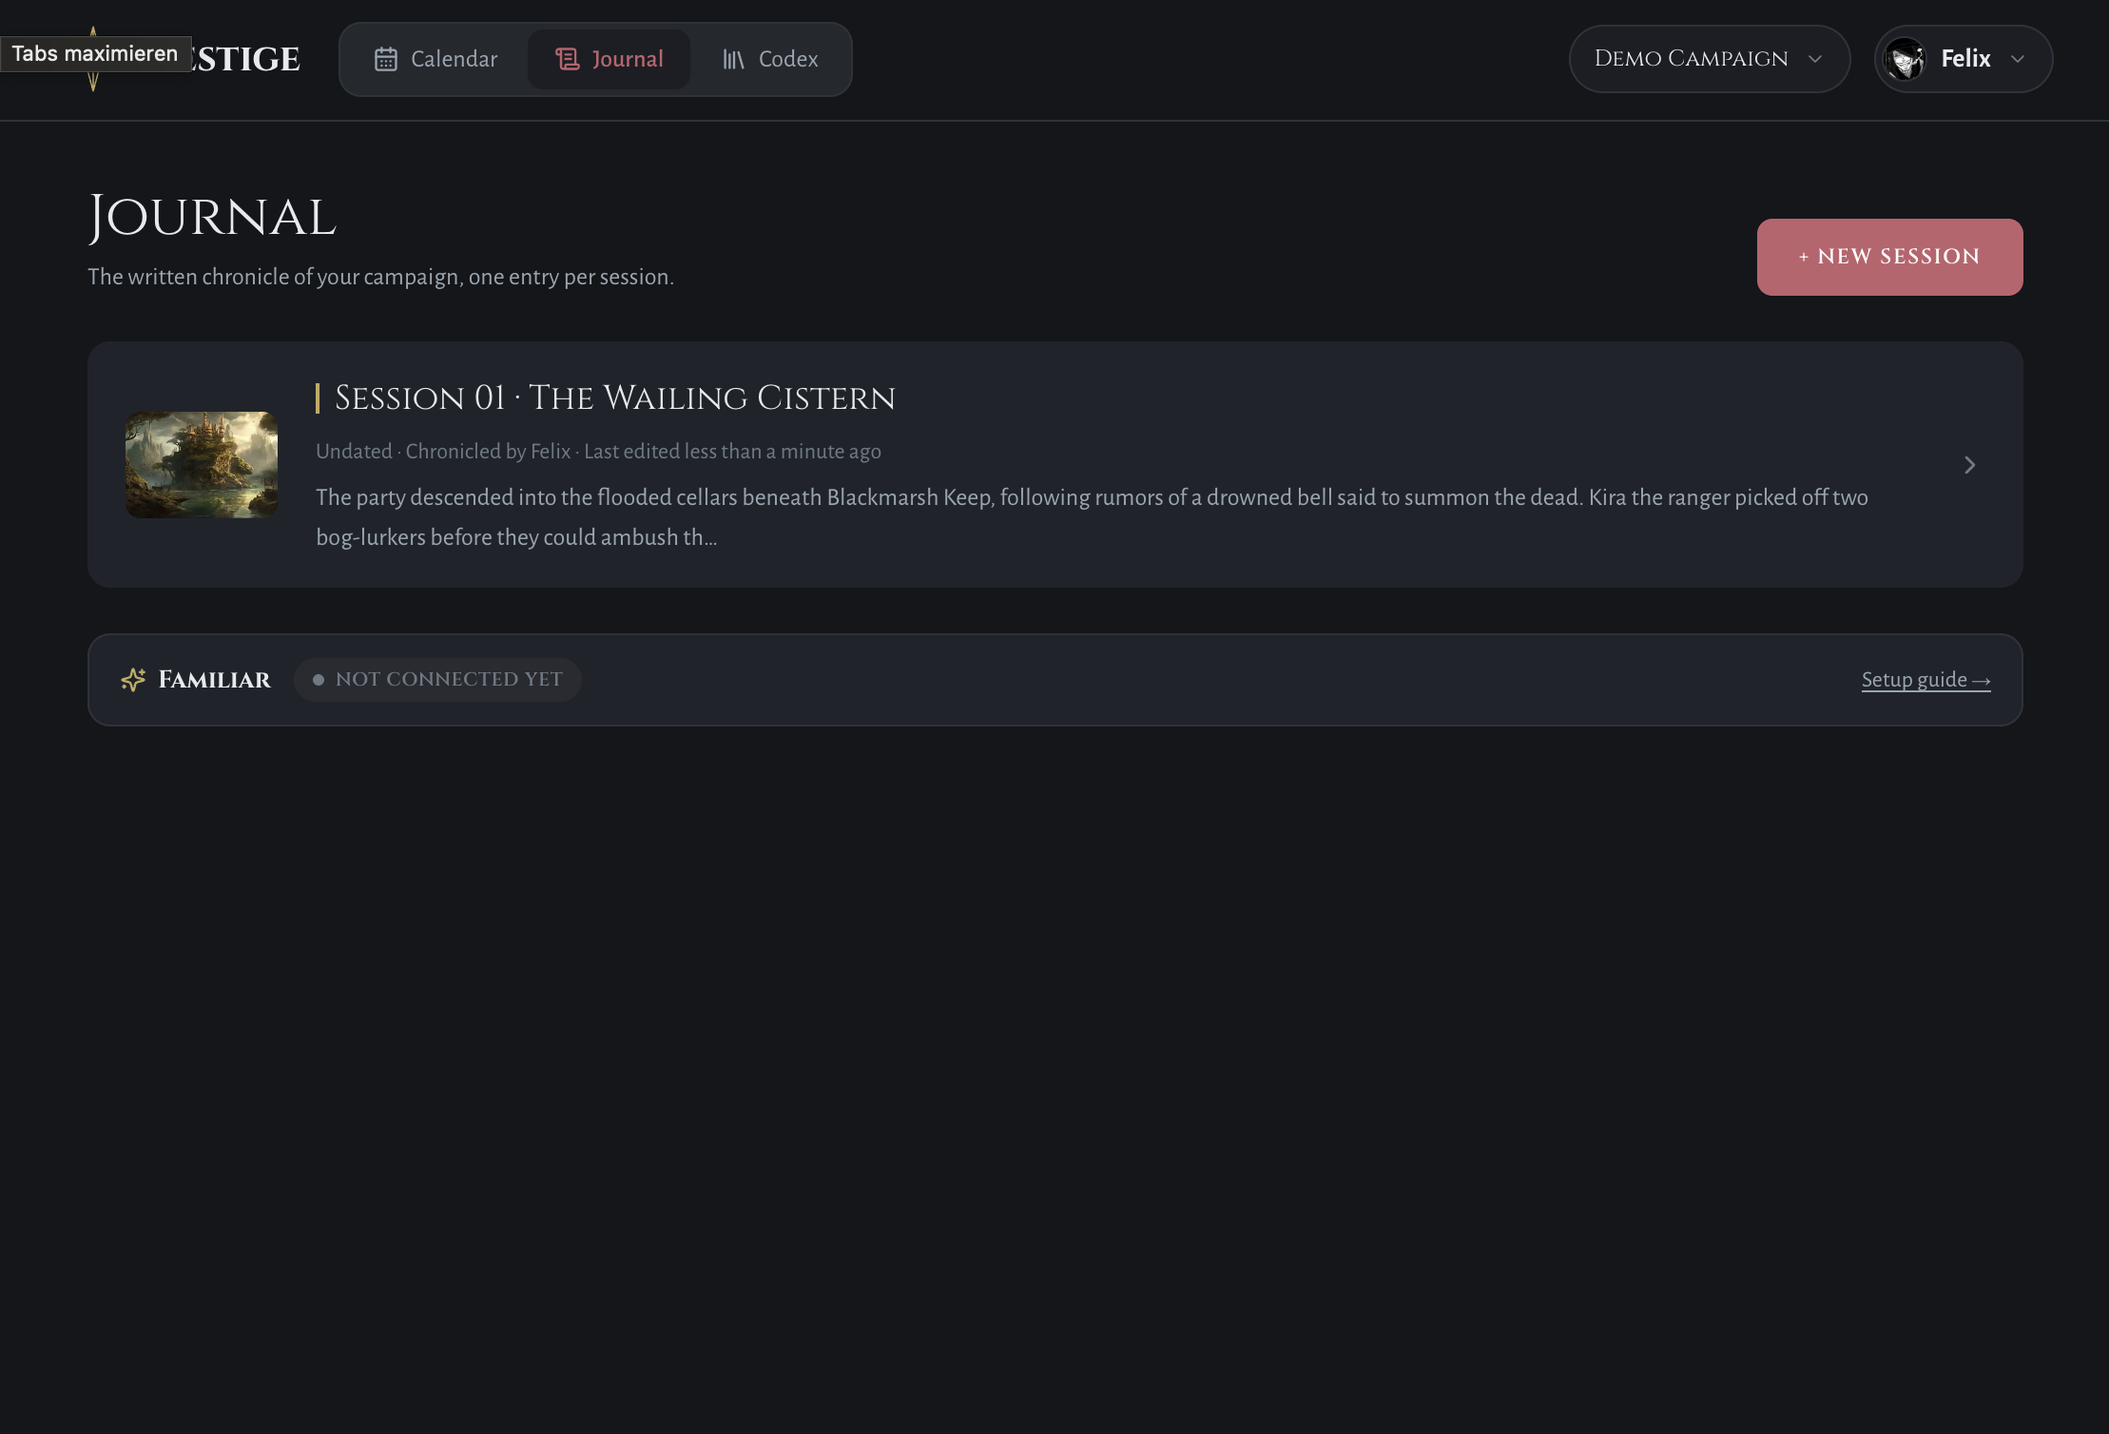
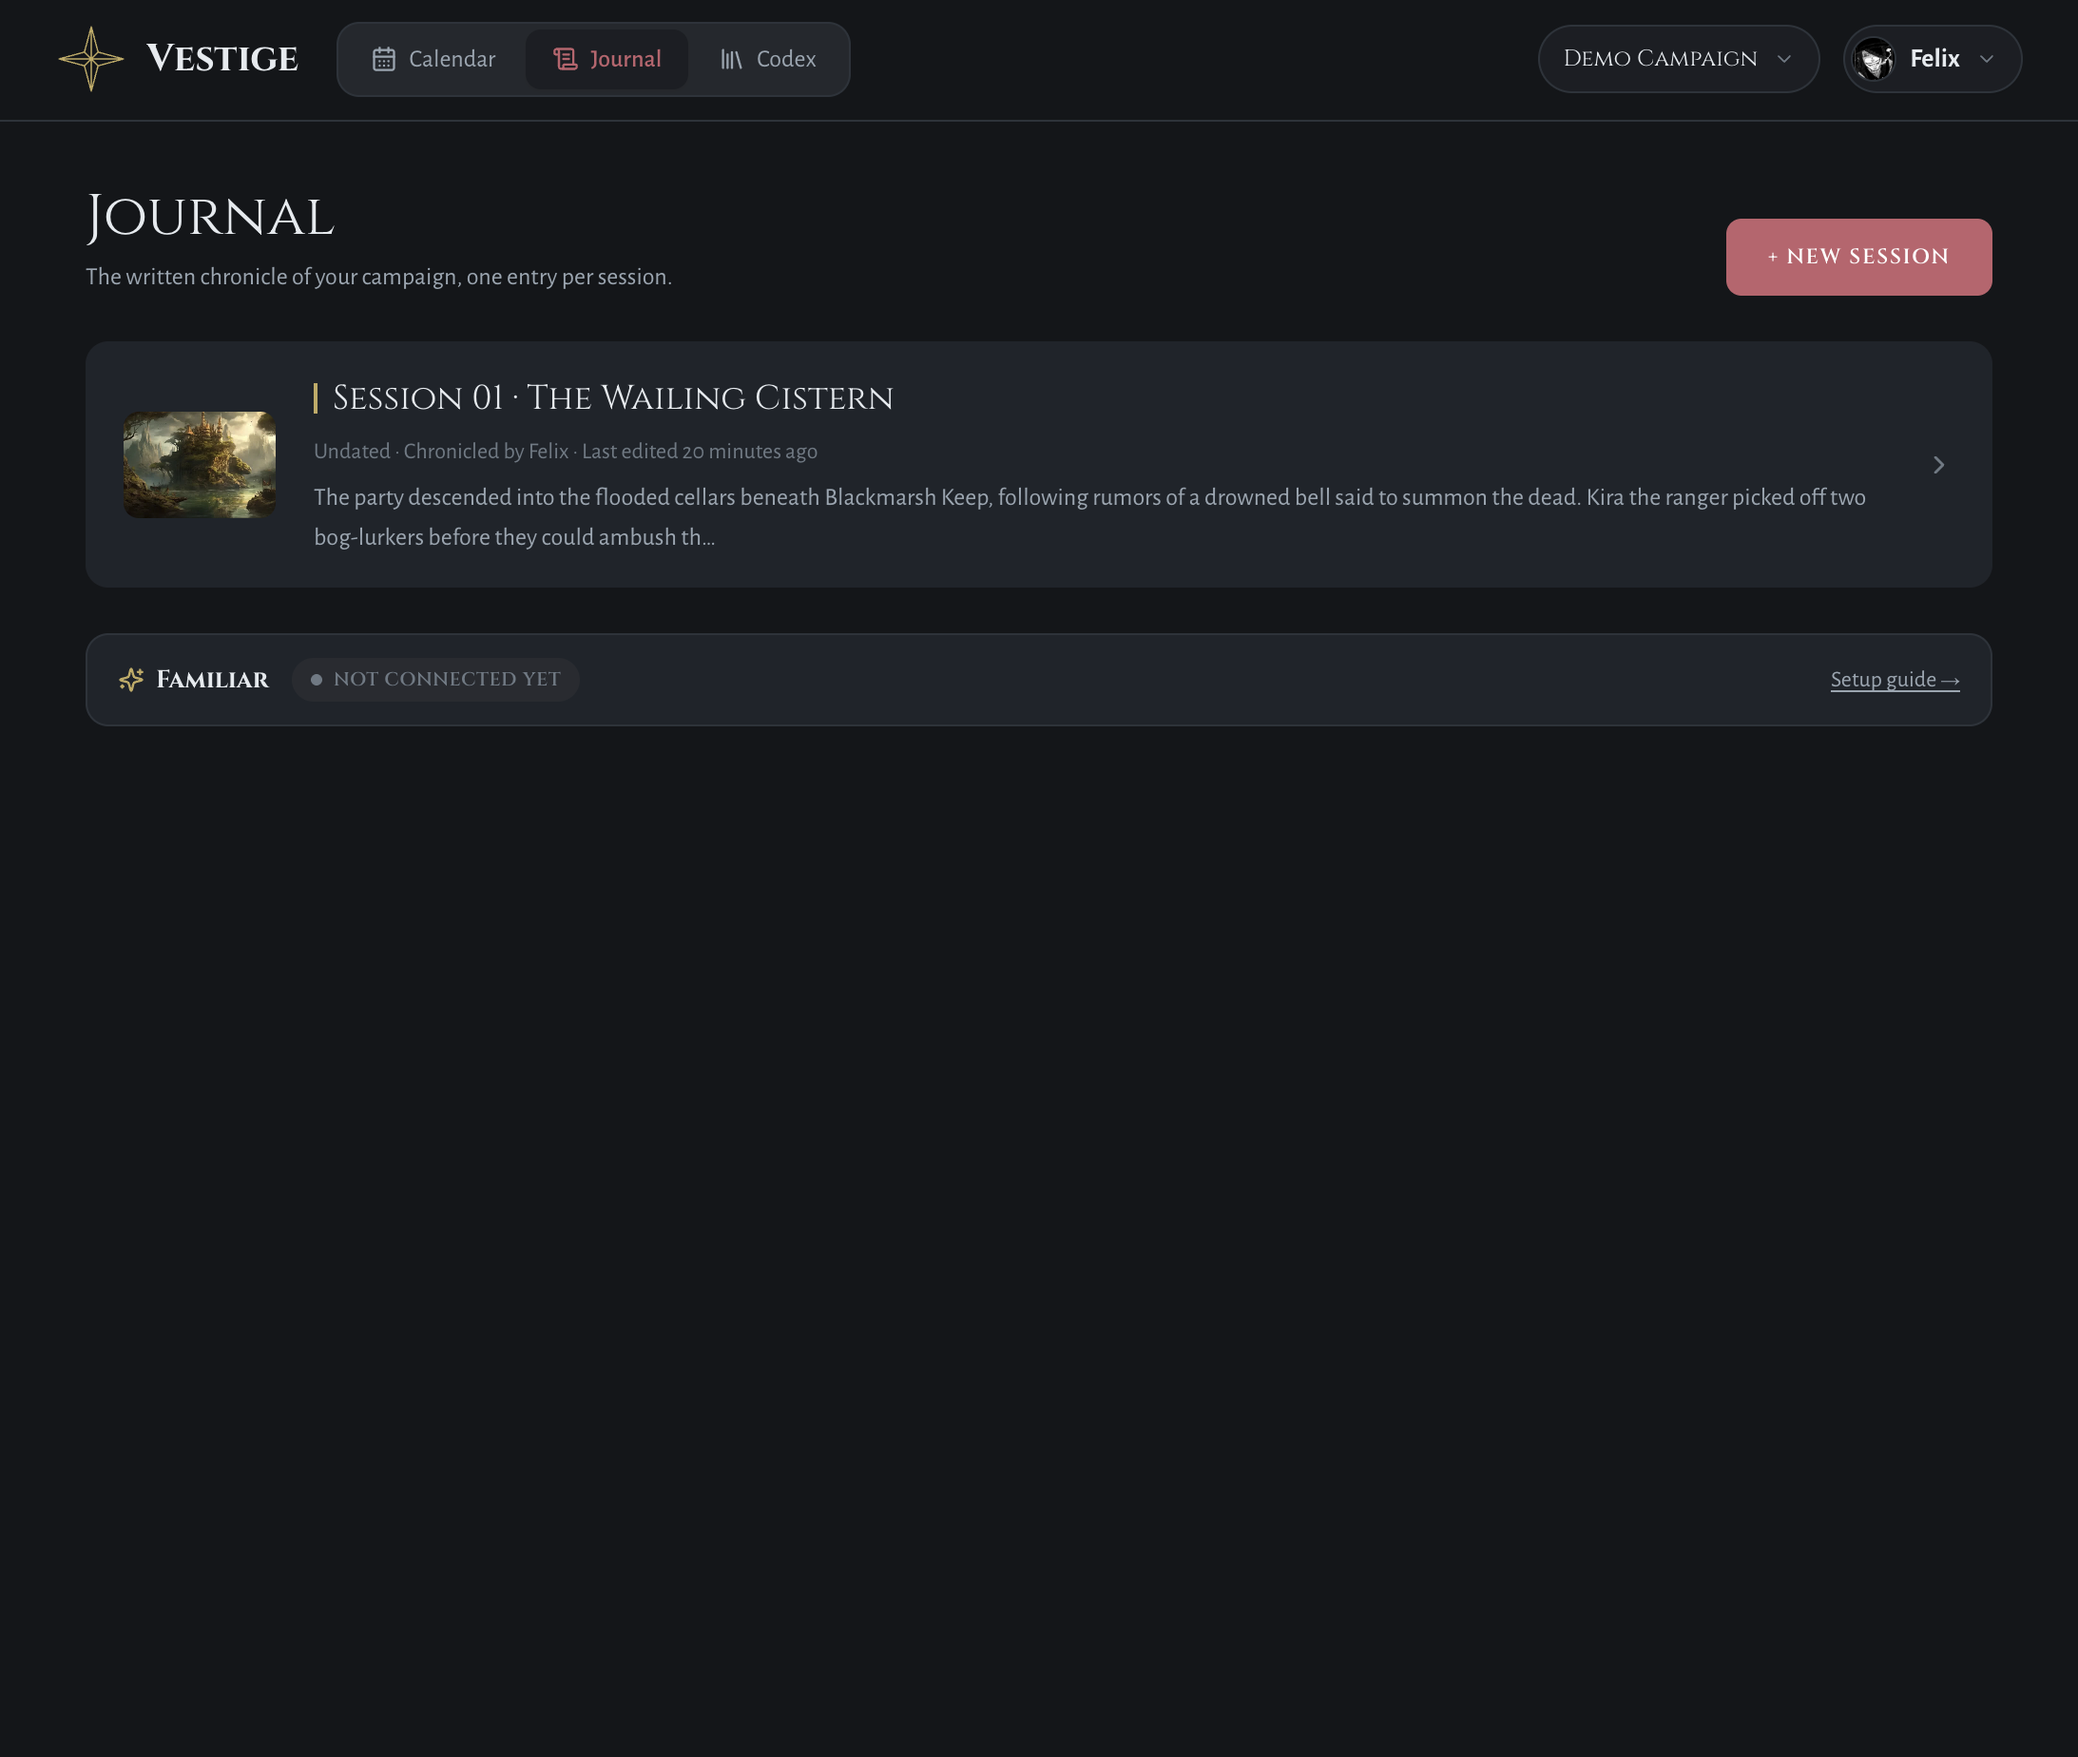
Journal feature page: swap screenshot for a cleaner capture (2_2.png)
Same shot as before, minus a stray browser tooltip that was baked into the
previous crop. Aspect ratio differs slightly, so the Image width/height
props are updated to match (2186x1848) and avoid layout shift.

diff --git a/apps/web/app/features/journal/page.tsx b/apps/web/app/features/journal/page.tsx
@@ -42,8 +42,8 @@ export default function JournalFeature() {
           <Image
             src="/images/journal-preview.png"
             alt="The Journal module, showing a recorded session recap and the Familiar connection card"
-            width={2218}
-            height={1508}
+            width={2186}
+            height={1848}
             className="h-auto w-full"
             priority
           />
